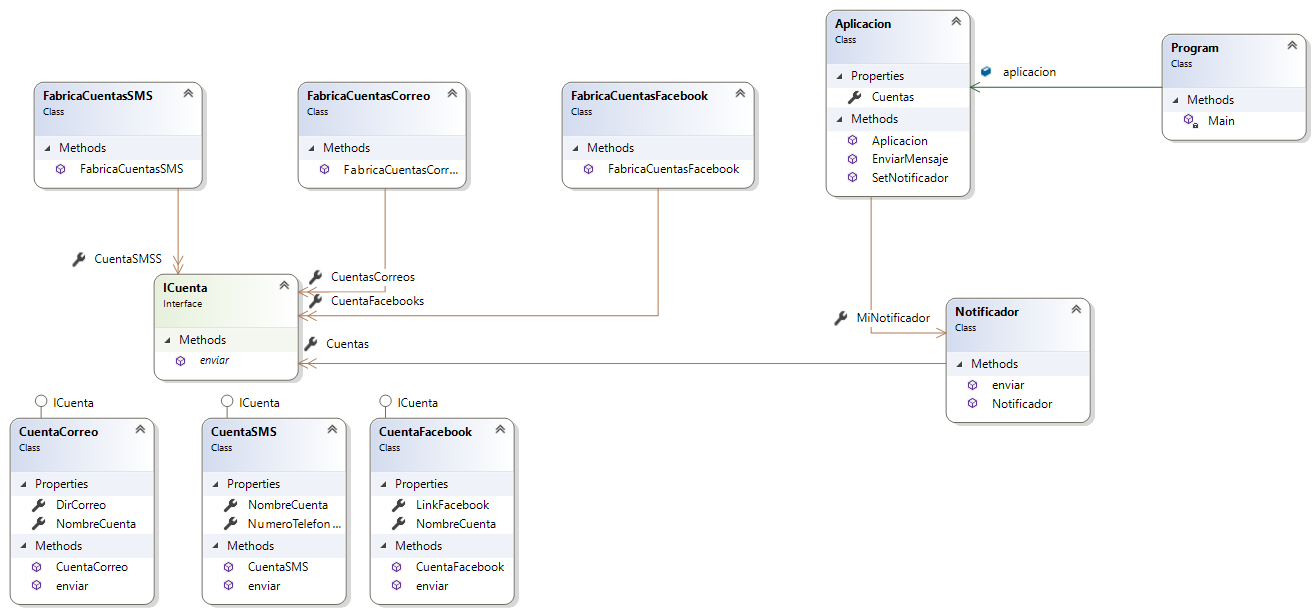
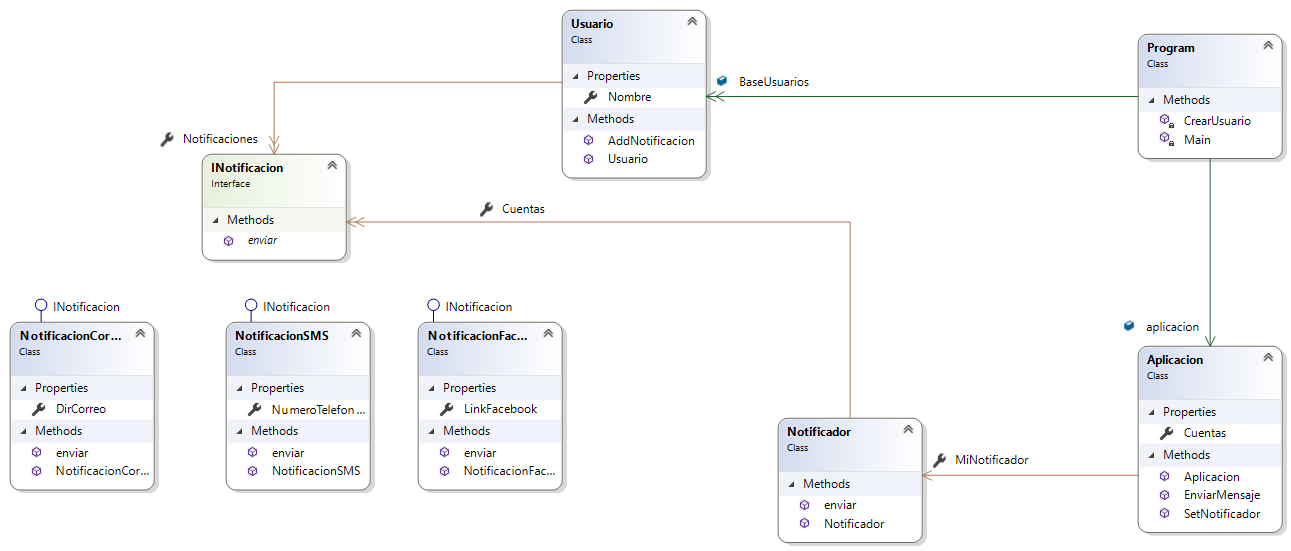
RamaUsuario Final

diff --git a/Taller1Codigo/Aplicacion.cs b/Taller1Codigo/Aplicacion.cs
@@ -1,27 +1,38 @@
-using System.Collections.Generic;
+using System;
+using System.Collections.Generic;
 using Taller1Codigo.Cuentas;
 
 namespace Taller1Codigo
 {
-      public class Aplicacion
-      {
-            public Notificador MiNotificador { get; set; }
-            public List<INotificacion> Cuentas { get; set; }
+    public class Aplicacion
+    {
+        public Usuario User { get; set; }
+        public List<INotificacion> Notificaciones { get; set; }
 
-            public Aplicacion(List<INotificacion> pcuentas)
-            {
-                  Cuentas = pcuentas;
-                  SetNotificador(Cuentas);
-            }
+        public Aplicacion ( Usuario usuario , List<INotificacion> notificacions )
+        {
+            User = usuario;
+            Notificaciones = notificacions;
+            SetNotificador(Notificaciones);
+        }
 
-            public void SetNotificador(List<INotificacion> cuentas)
+        private void SetNotificador ( List<INotificacion> pNotificaciones )
+        {
+            foreach ( var notificacion in pNotificaciones )
             {
-                  MiNotificador = new Notificador(cuentas);
+                User.AddNotificacion(notificacion);
             }
+        }
 
-            public void EnviarMensaje()
+        public void EnviarMensaje ( string Mensaje )
+        {
+            string Prefijo = $"Enviando notificacion a {User.Nombre}";
+            Console.WriteLine(Prefijo);
+
+            foreach ( var notificacion in Notificaciones )
             {
-                  MiNotificador.enviar("Alerta");
+                notificacion.enviar(Mensaje);
             }
-      }
+        }
+    }
 }

diff --git a/Taller1Codigo/Program.cs b/Taller1Codigo/Program.cs
@@ -37,18 +37,22 @@ namespace Taller1Codigo
             {
                 if ( Nombre == "Santiago Vasquez" )
                 {
-                    CrearUsuario(Nombre , notificacionesSantiago);
+                    aplicacion = new Aplicacion(new Usuario(Nombre) , notificacionesSantiago);
                 }
 
                 if ( Nombre == "Luis Alberto Marin" )
                 {
-                    CrearUsuario(Nombre , notificacionesLuis);
+                    aplicacion = new Aplicacion(new Usuario(Nombre) , notificacionesLuis);
                 }
 
                 if ( Nombre == "Fabio Salazar" )
                 {
-                    CrearUsuario(Nombre , notificacionesFabio);
+                    aplicacion = new Aplicacion(new Usuario(Nombre) , notificacionesFabio);
                 }
+
+                aplicacion.EnviarMensaje("Alerta¡");
+                Console.WriteLine("----------");
+                BaseUsuarios.Add(aplicacion.User);
             }
 
             Console.ReadLine();
